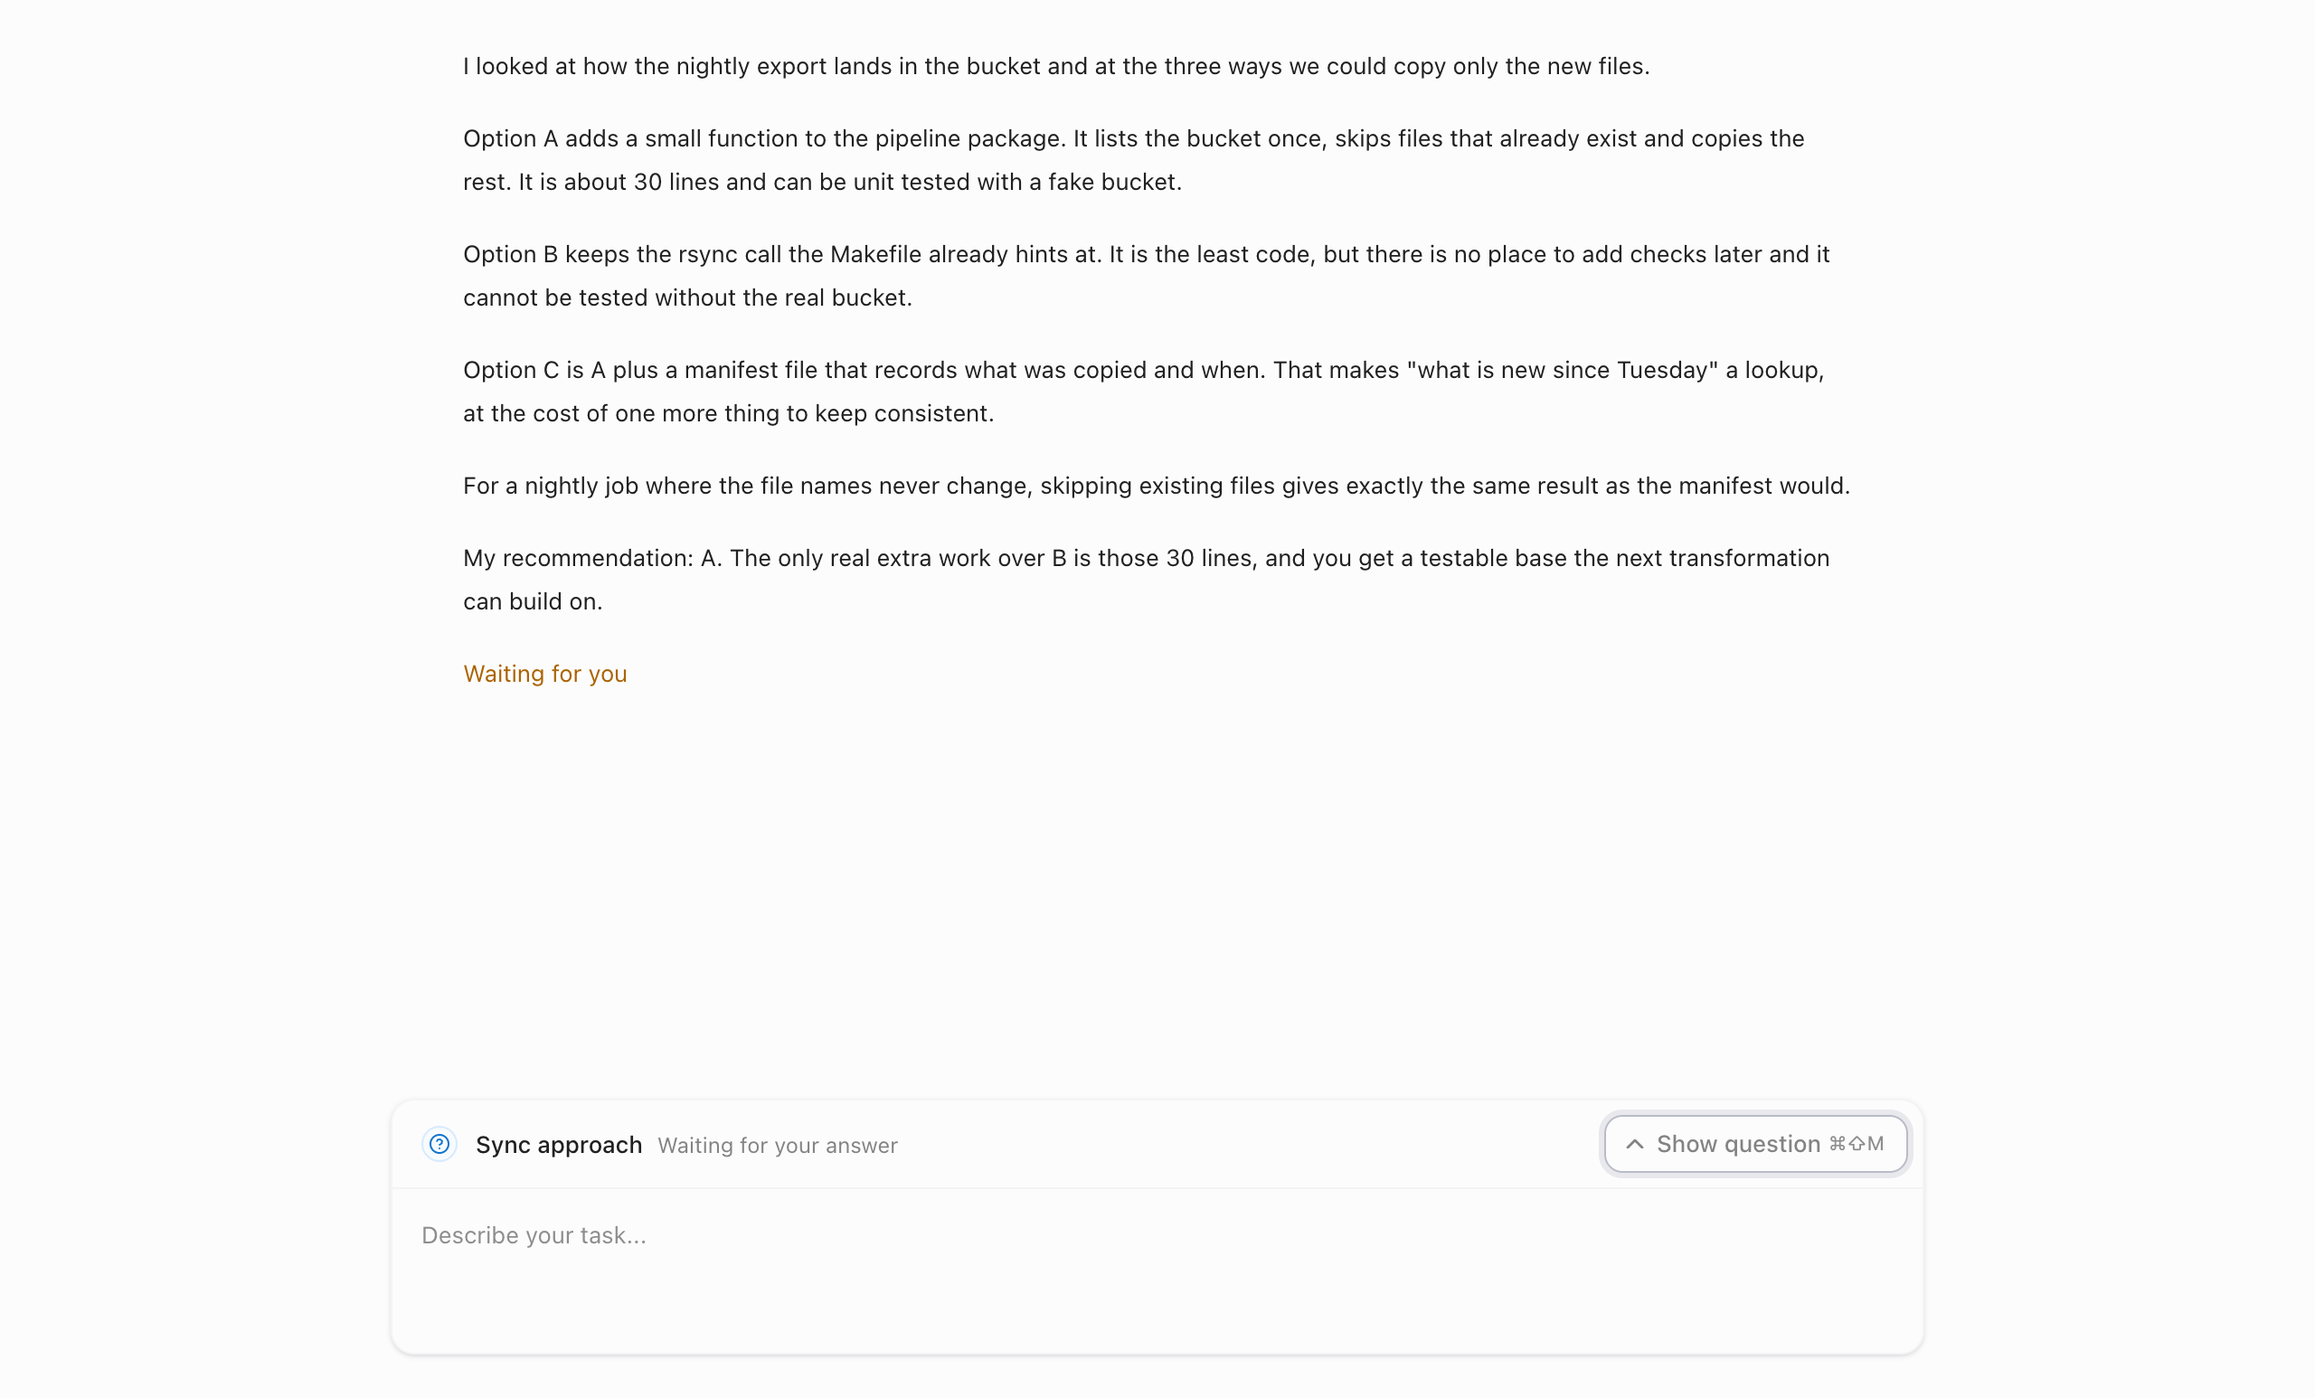
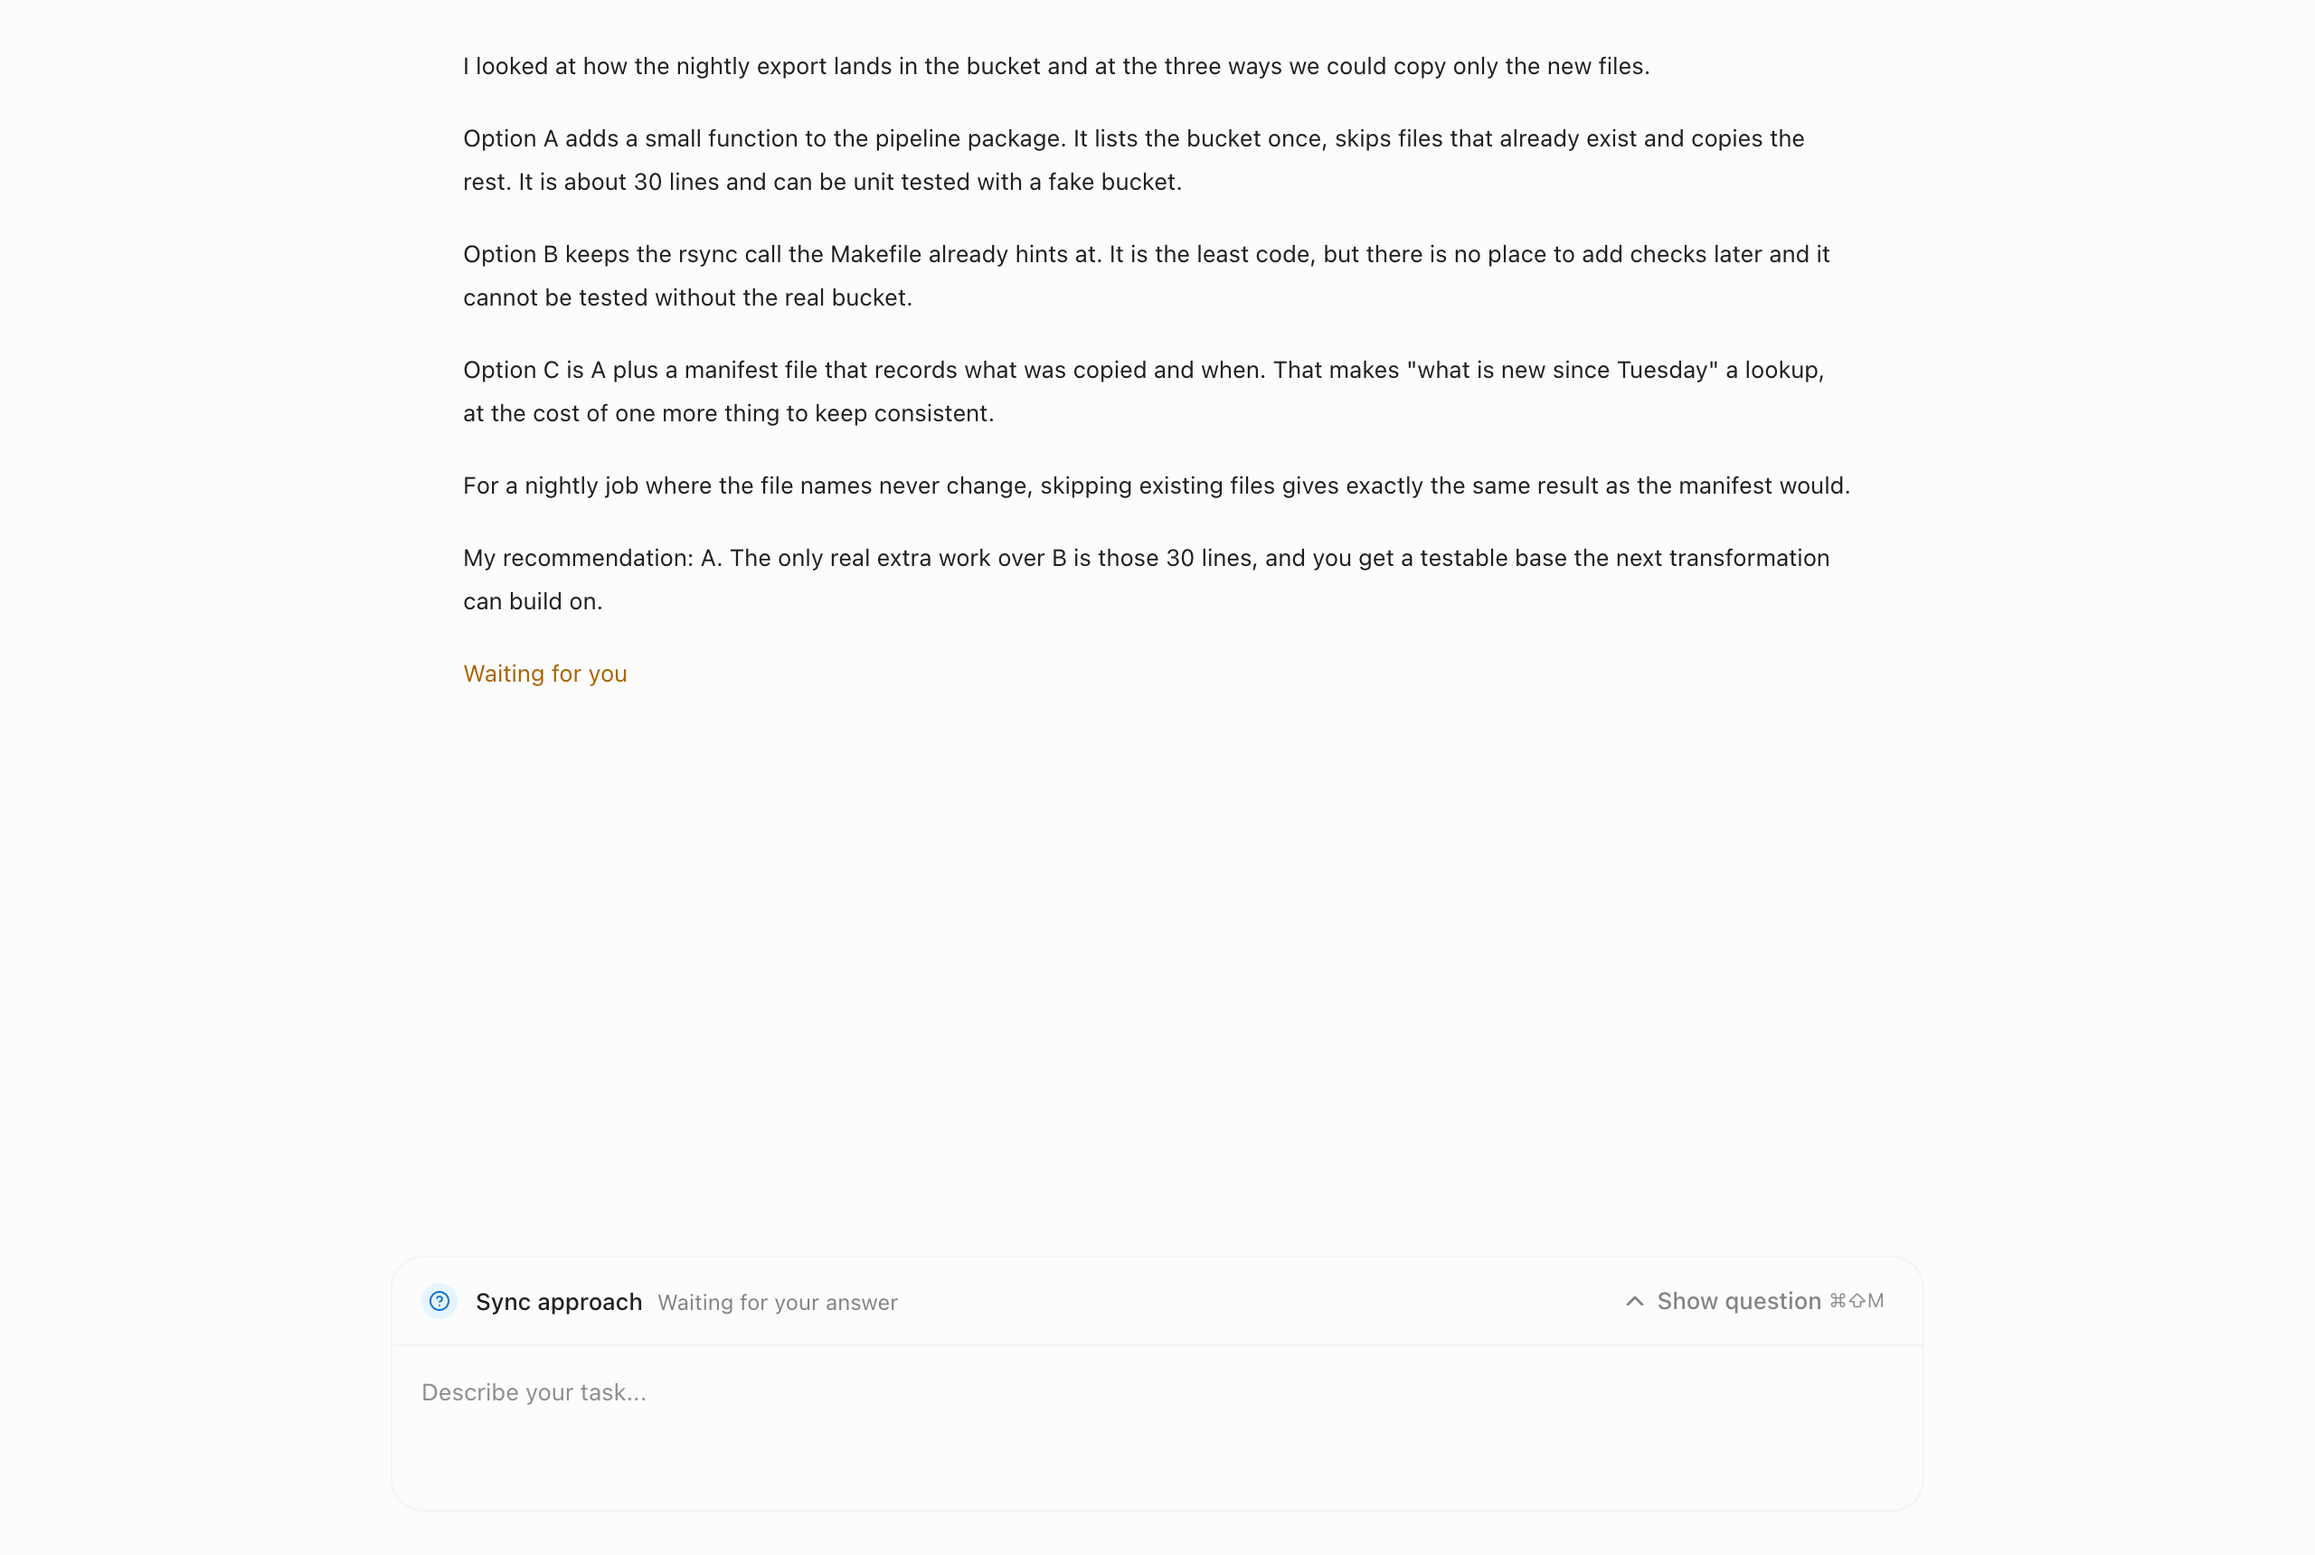
style(session): quiet the minimize control on a pending question
The minimize and show buttons rest in muted text in both states instead of
turning dark while the question is open, the chord is lighter than the
label, and the question icon chip loses its border. The answer card for
tasks on another computer gets the same treatment. The focus ring is the
Button primitive's and shows for keyboard focus only.

diff --git a/apps/app/src/react-app/domains/session/modals/question-modal.tsx b/apps/app/src/react-app/domains/session/modals/question-modal.tsx
@@ -366,7 +366,7 @@ export function QuestionPanel(props: QuestionPanelProps) {
       >
         <div className={`px-4 ${collapsed ? "py-2" : "border-b border-dls-border py-3"}`}>
           <div className={`flex gap-2.5 ${collapsed ? "items-center" : "items-start"}`}>
-            <div className={`flex size-5 shrink-0 items-center justify-center rounded-full border border-blue-7/30 bg-blue-3/20 text-blue-11 ${collapsed ? "" : "mt-0.5"}`}>
+            <div className={`flex size-5 shrink-0 items-center justify-center rounded-full bg-blue-3 text-blue-11 ${collapsed ? "" : "mt-0.5"}`}>
               <HelpCircle size={12} />
             </div>
             {collapsed ? (
@@ -395,14 +395,14 @@ export function QuestionPanel(props: QuestionPanelProps) {
                 <Button
                   variant="ghost"
                   size="sm"
-                  className={`shrink-0 text-gray-10 ${collapsed ? "-mr-2" : "-mt-1"}`}
+                  className={`shrink-0 text-gray-10 aria-expanded:text-gray-10 aria-expanded:hover:text-foreground ${collapsed ? "-mr-2" : "-mt-1"}`}
                 />
               }
               data-question-collapse-toggle=""
             >
               {collapsed ? <ChevronUp data-icon="inline-start" /> : <ChevronDown data-icon="inline-start" />}
               {collapsed ? t("question_modal.expand") : t("question_modal.collapse")}
-              <span className="text-[11px] text-gray-9" aria-hidden="true">{questionCollapseChordLabel()}</span>
+              <span className="text-[11px] font-normal text-gray-9" aria-hidden="true">{questionCollapseChordLabel()}</span>
             </CollapsibleTrigger>
             {props.onDismiss && !collapsed ? (
               <Button

diff --git a/apps/app/src/react-app/domains/session/remote-threads/remote-thread-answer-card.tsx b/apps/app/src/react-app/domains/session/remote-threads/remote-thread-answer-card.tsx
@@ -252,9 +252,9 @@ function QuestionCard({ pending, computer, busy, error, onSubmit, collapsible }:
                   : t("session.remote_answer_question_on", { computer })}
             </span>
           </span>
-          <CollapsibleTrigger render={<Button variant="ghost" size="xs" />} data-question-collapse-toggle="">
+          <CollapsibleTrigger render={<Button variant="ghost" size="xs" className="text-muted-foreground aria-expanded:text-muted-foreground aria-expanded:hover:text-foreground" />} data-question-collapse-toggle="">
             {minimized ? t("question_modal.expand") : t("question_modal.collapse")}
-            <span className="text-muted-foreground" aria-hidden="true">{questionCollapseChordLabel()}</span>
+            <span className="text-[11px] font-normal text-muted-foreground" aria-hidden="true">{questionCollapseChordLabel()}</span>
           </CollapsibleTrigger>
         </div>
       ) : (
